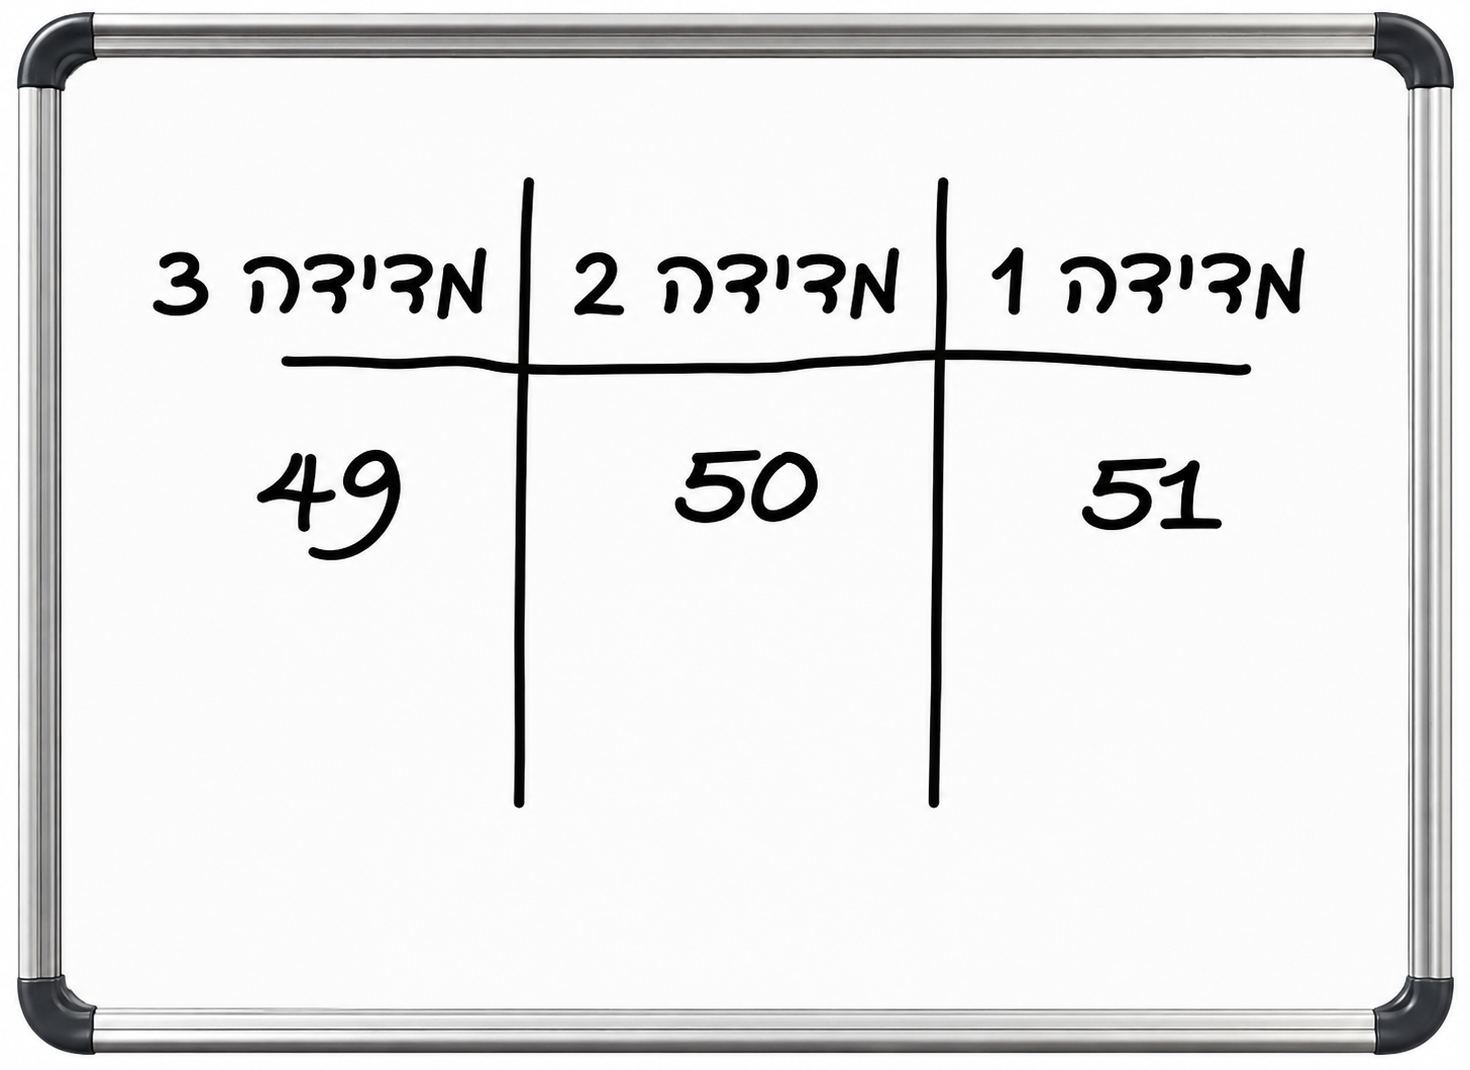
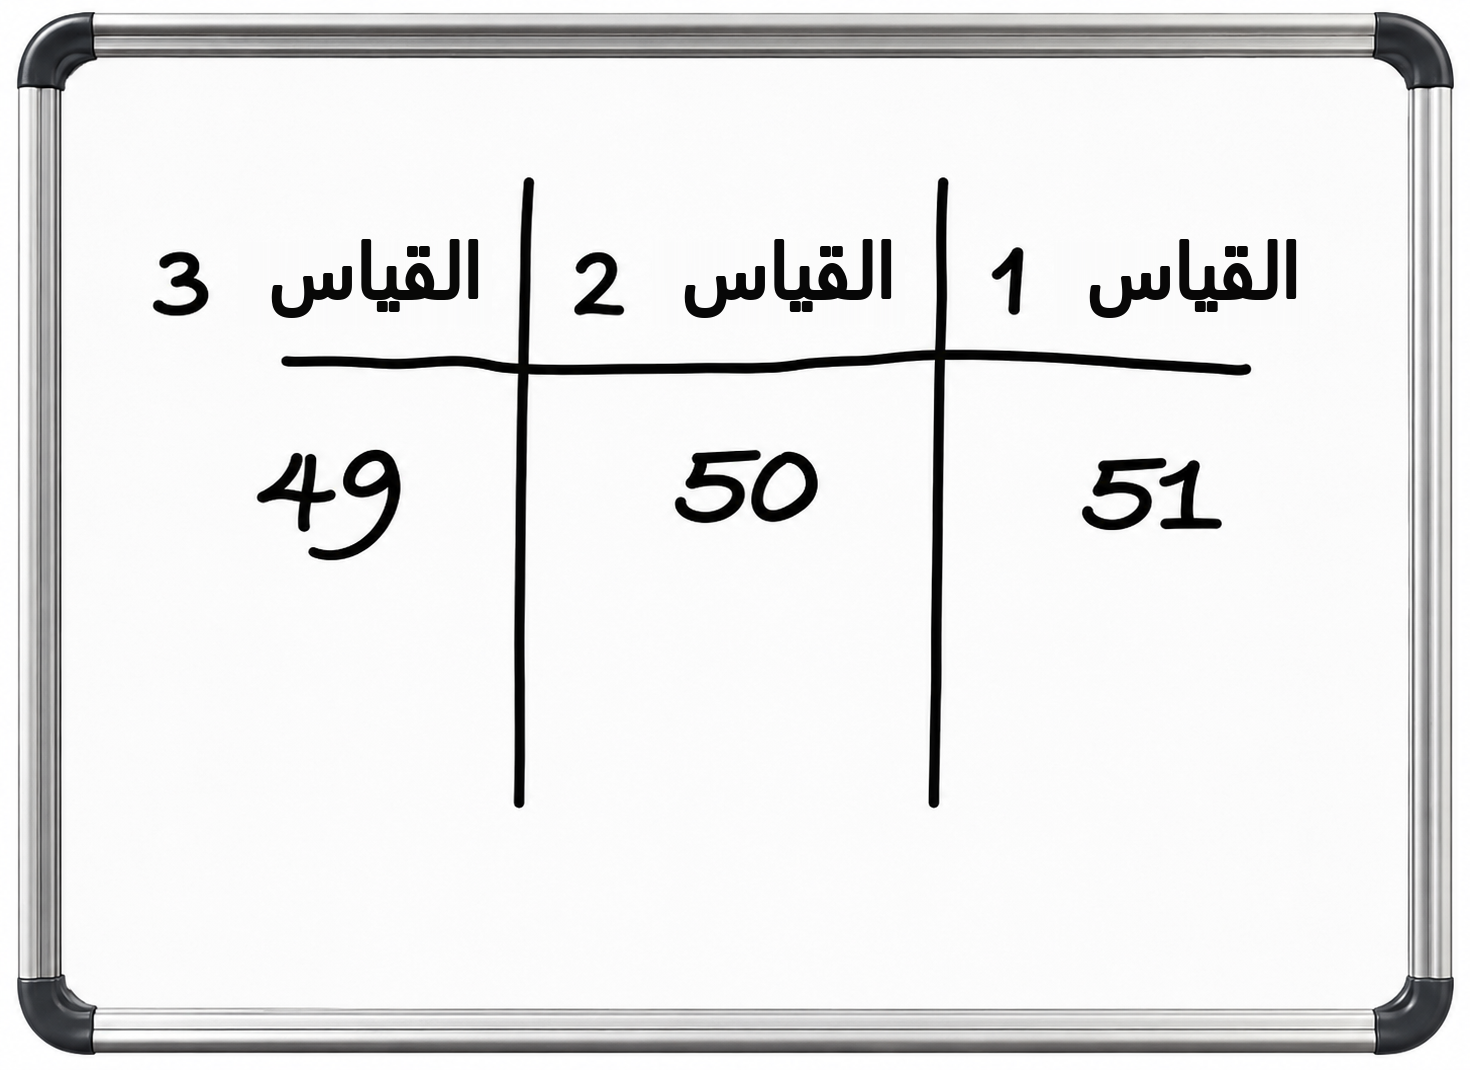
Arabic lettering in the last four images that showed Hebrew
Edited in place, only the lettering; same names and pixel sizes, so no code
change. Everything outside the label boxes is byte-identical in pixels.

- 03 Adi-Board.png, Almog-Board.png: 'מדידה N' -> 'القياس N' (as the alt
  text and the screen say), Segoe UI with a marker-weight stroke; the
  handwritten digits are kept
- 01 DrinksAndMeasure.png: the six 'מ"ל' on the two cylinders -> 'ملل'
  (four on the glass, two in the liquid), Arial Bold
- 05 Bottle-Weight.png: 'מ"ל' under '500 mL' -> 'ملل', Arial Bold, same grey

README: the open image item is closed.

Changed region(s): [[0.1531, 0.2159, 0.3367, 0.3084], [0.7041, 0.2159, 0.8878, 0.3084], [0.4286, 0.2159, 0.6122, 0.3084]]

diff --git a/README.md b/README.md
@@ -37,10 +37,13 @@ unit, as the dropdown shows them.
   bubble, the 03 "هل القياسان كافيان؟" dropdown at 15px, the 07 S4 distractor pills.
 - Part 05 video: `mE4r3rECnyc` (Hebrew: `lYn6pld-VXM`).
 - Arabic images: 06 `recipe-1950-note.png`, `recipe-online.png`; 07 `OrangeJuiceBottle.png`.
+- Images edited in place (2026-11-02), only the lettering, same names and sizes: 03 `Adi-Board.png`,
+  `Almog-Board.png` ("מדידה N" -> "القياس N", Segoe UI over the handwritten digits, which were kept);
+  01 `DrinksAndMeasure.png` (six "מ"ל" -> "ملل" on the two cylinders) and 05 `Bottle-Weight.png`
+  ("מ"ל" -> "ملل" under "500 mL"), Arial Bold. A designer may still want to redraw the board headers
+  by hand.
 
-**Open:** four images still carry Hebrew lettering and need Arabic versions from design (same name and
-size, no code change): `-03/assets/img/Adi-Board.png`, `-03/assets/img/Almog-Board.png` ("מדידה 1/2/3"),
-`-01/assets/img/DrinksAndMeasure.png` and `-05/assets/img/Bottle-Weight.png` ("מ"ל").
+No image carries Hebrew lettering any more (checked 2026-11-02, every raster image).
 
 Translation working files at the root (`lomda-transilation.md`, the `.xlf`) never ship: the package
 takes no root files.
